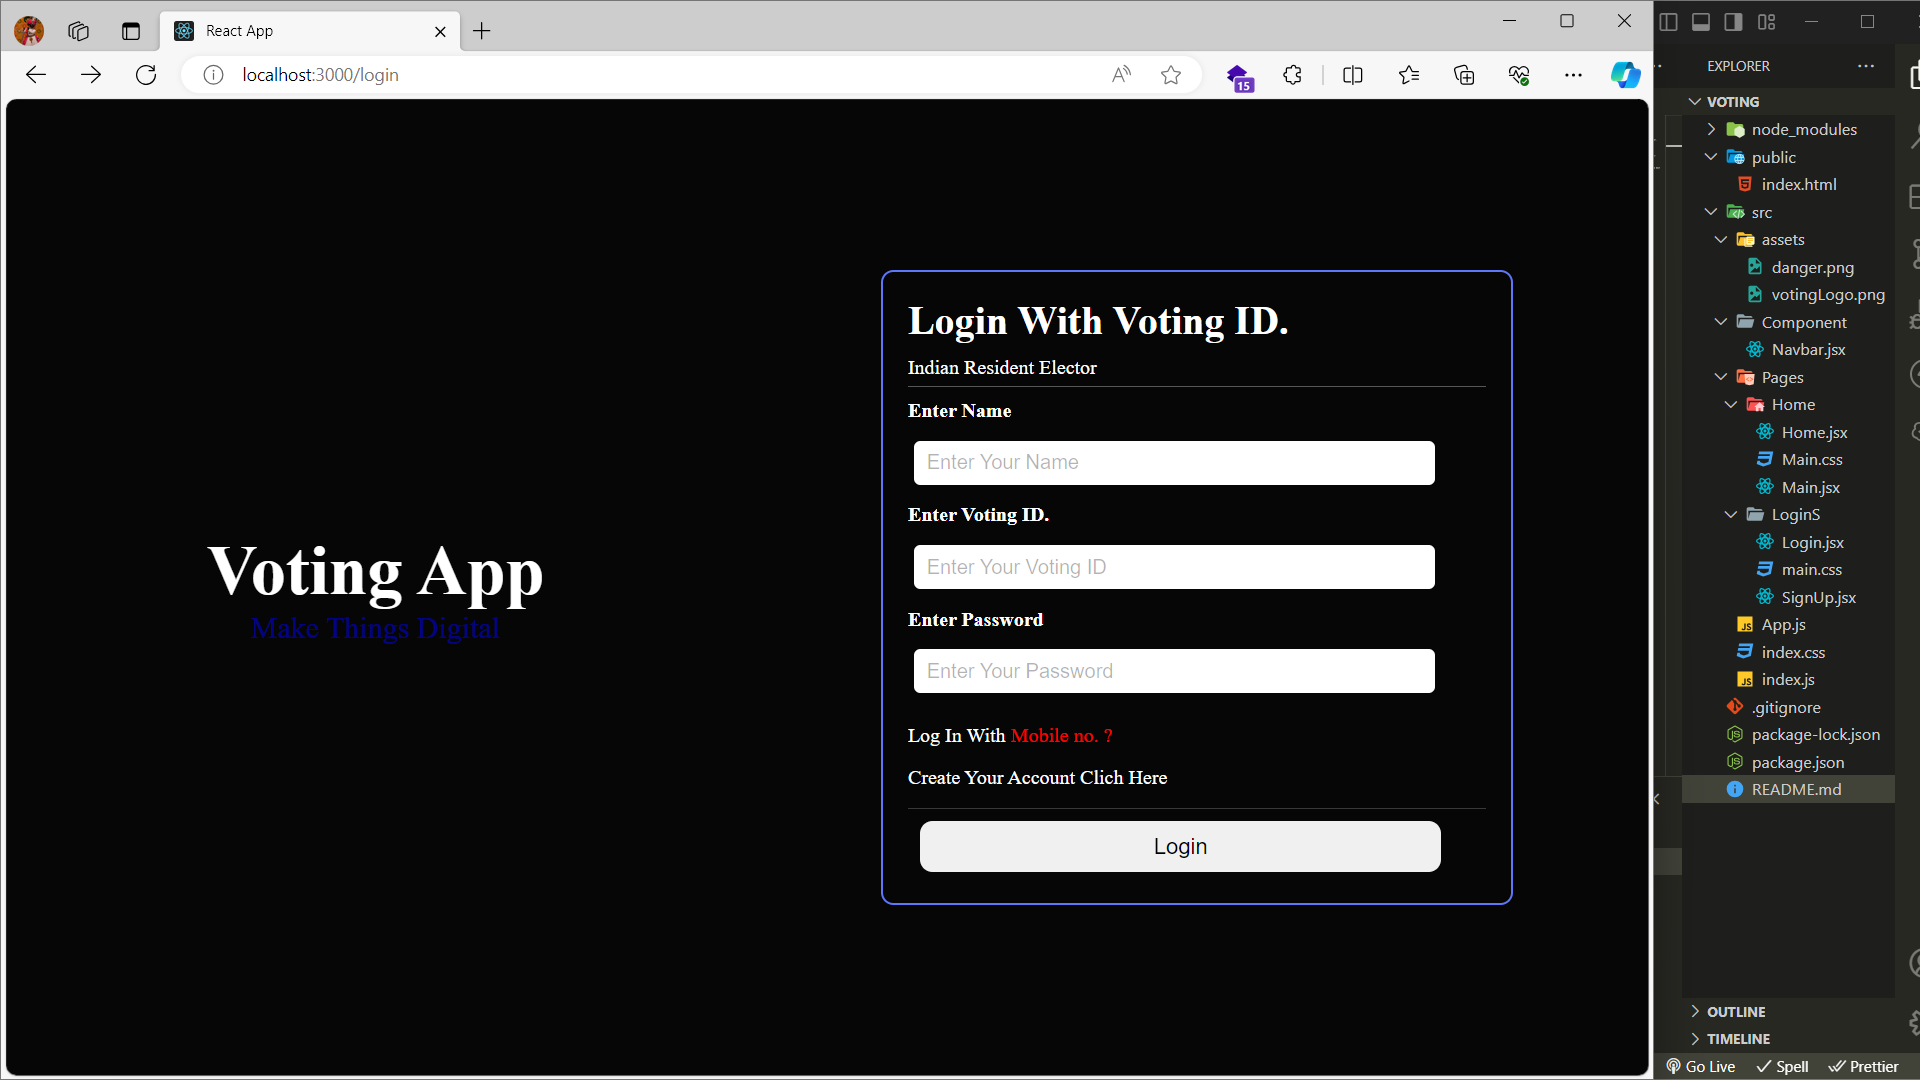
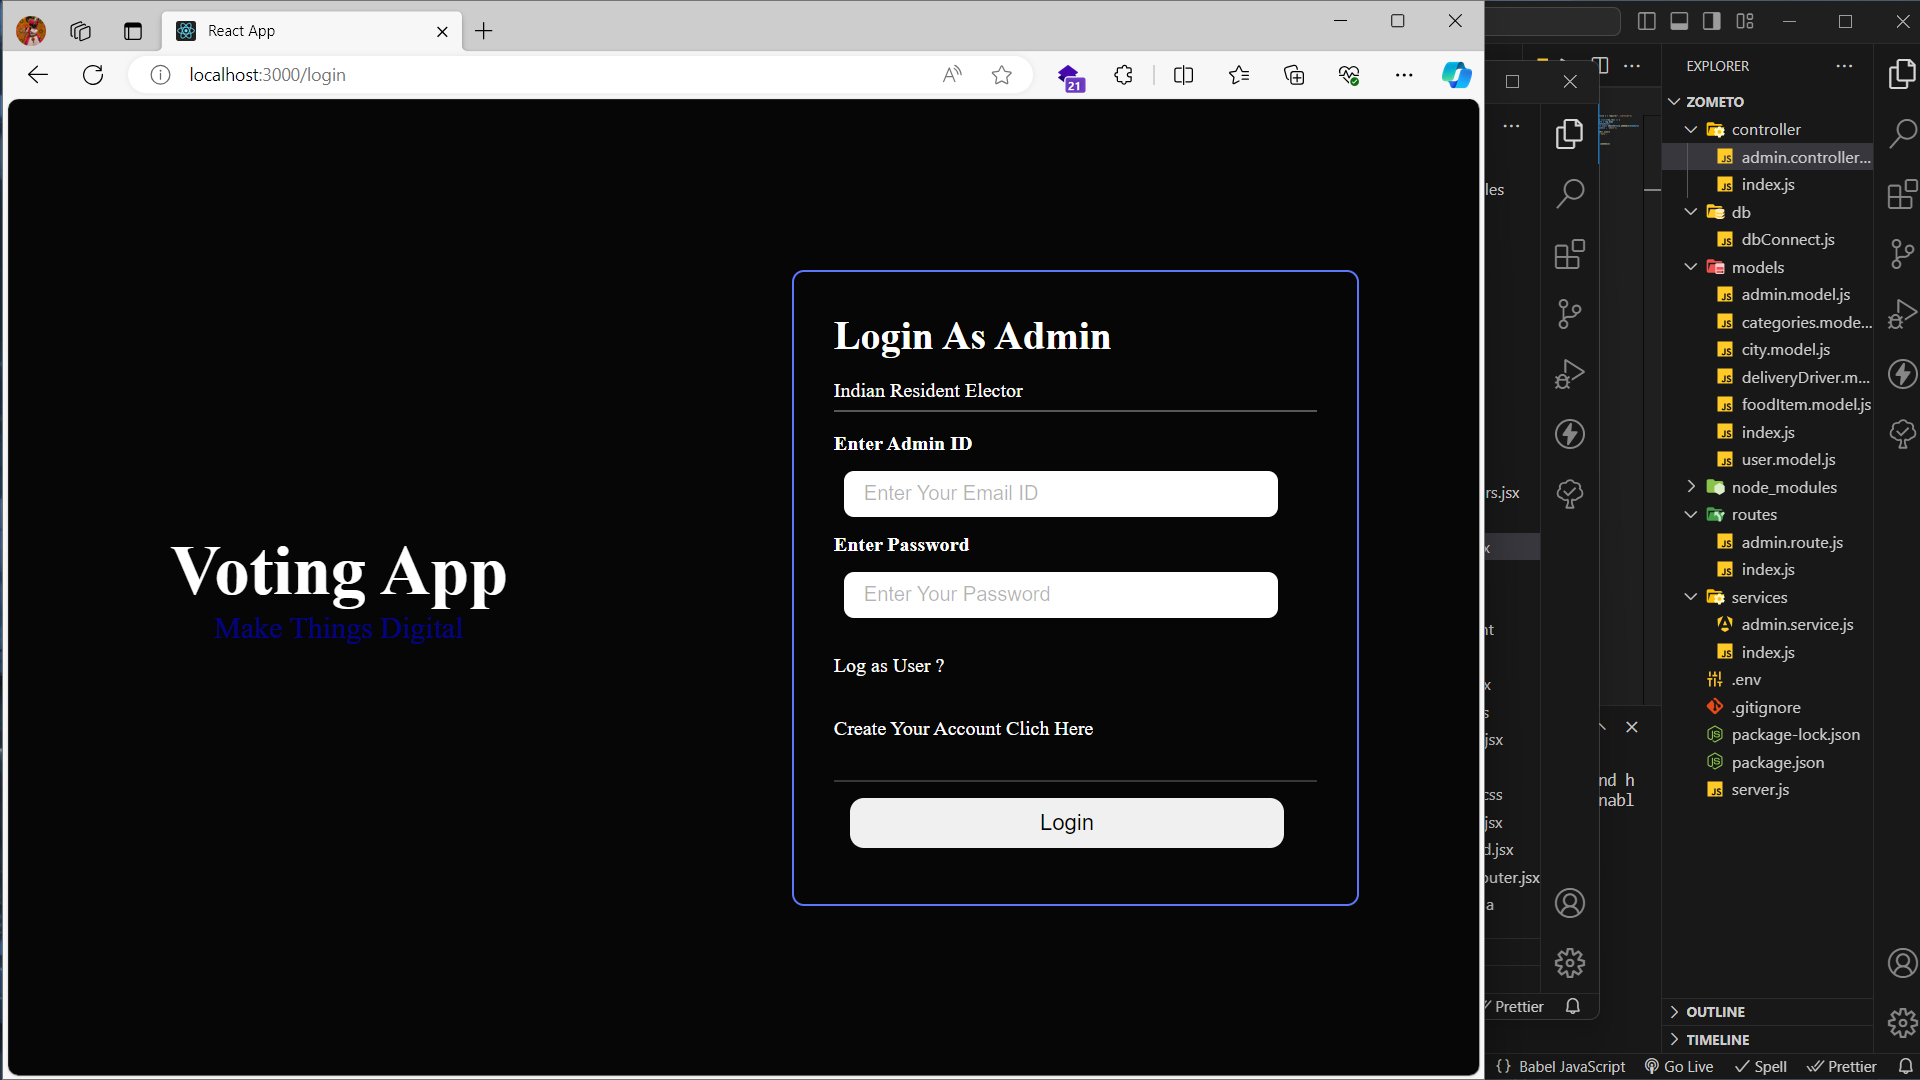
update file

diff --git a/voting/src/Admin/Users/AddUsers.jsx b/voting/src/Admin/Users/AddUsers.jsx
@@ -1,107 +1,92 @@
-import React from "react";
+import React, { useState } from "react";
 import { useNavigate } from "react-router-dom";
+import { POST_USER_PENDING } from "../../Redux-Saga/admin/Action/userAction";
+import { useDispatch } from "react-redux";
 
 const AddUsers = () => {
-
   const navigate = useNavigate();
+  const dispatch = useDispatch();
+  const [inputData , setInputData] = useState({})
 
+  const getInputData = (e) => {
+    setInputData({ ...inputData, [e.target.name]: e.target.value });
+  };
+
+console.log(inputData);
+
+const handleSumbit = ()=>{
+  if(inputData.Name && inputData.Email){
+    dispatch({type : POST_USER_PENDING , payload : inputData})
+  }
+  else{
+    alert("Please fill all fields !")
+  }
+}
   return (
     <>
-        <div className="adduser_bg">
-          <div className="adduser">
-              <h1 >Add User</h1>
-                  <h3 > Indian Resident Elector</h3>
+      <div className="adduser_bg">
+        <div className="adduser">
+          <h1>Add User</h1>
+          <h3> Indian Resident Elector</h3>
 
-                <div className="adduser_box">
-                      <div className="adduser_input">
-                        <label> Your Name</label>
-                          <input
-                            type="text"
-                            name="name"
-                            placeholder="Enter Your Name"
-                          />
-                      </div>
+          <div className="adduser_box">
+            <div className="adduser_input">
+              <label> Your Name</label>
+              <input type="text" name="Name" placeholder="Enter Your Name"  onChange={getInputData}/>
+            </div>
 
-                      <div className="adduser_input">
-                        <label> Your BirthDate</label>
-                          <input
-                            type="date"
-                            name="date"
-                          />
-                      </div>
+            <div className="adduser_input">
+              <label> Your BirthDate</label>
+              <input type="date" name="DOB"  onChange={getInputData}/>
+            </div>
 
-                      <div className="adduser_input">
-                        <label>Email address</label>
-                          <input
-                            name="email"
-                            type="email"
-                            placeholder="Enter Your Email"
-                          />
-                      </div>
+            <div className="adduser_input">
+              <label>Email address</label>
+              <input name="Email" type="email" placeholder="Enter Your Email" onChange={getInputData}/>
+            </div>
 
-                      <div className="adduser_input">
-                        <label> Enter Your Phone No.</label>
-                          <input
-                            name="number"
-                            type="text"
-                            placeholder="Enter Your Phone"
-                          />
-                      </div>
+            <div className="adduser_input">
+              <label> Enter Your Phone No.</label>
+              <input name="Phone" type="text" placeholder="Enter Your Phone" onChange={getInputData}/>
+            </div>
 
-                      <div className="adduser_input">
-                        <label> Your Address</label>
-                          <input
-                            type="text"
-                            name="address"
-                            placeholder="Enter Your Address"
-                          />
-                      </div>
+            <div className="adduser_input">
+              <label> Your Address</label>
+              <input
+                type="text"
+                name="Address"
+                placeholder="Enter Your Address"
+               onChange={getInputData}
+              />
+            </div>
 
-                      <div className="adduser_input">
-                        <label > Enter Your Gender</label>
-                          <input
-                            type="text"
-                            name="sex"
-                            placeholder="Enter Your Gender"
-                          />
-                      </div>
+            <div className="adduser_input">
+              <label> Enter Your Gender</label>
+              <input type="text" name="Sex" placeholder="Enter Your Gender" onChange={getInputData}/>
+            </div>
 
-                      <div className="adduser_input">
-                        <label > Enter Your Card No.</label>
-                          <input
-                            type="text"
-                            name="cardNumber"
-                            placeholder="Enter Your Card no."
-                          />
-                      </div>
+            <div className="adduser_input">
+              <label> Enter Your Card No.</label>
+              <input
+                type="text"
+                name="CardNumber"
+                placeholder="Enter Your Card no."
+                onChange={getInputData}
+              />
+            </div>
 
-                   
-                      <div className=" adduser_img">
-<label>Upload a file</label>
-
-                            <input
-                              type="file"
-                              id="logo"
-                              name="profile"
-                            />
-                      </div>
-                </div>
-
-              <div className="adduser_btn">
-                <button
-                  onClick={() => navigate("/users")}
-                >
-                  Cancel
-                </button>
-                <button
-                  type="submit"
-                >
-                  Add
-                </button>
-
-              </div>
+            <div className=" adduser_input">
+              <label>Upload a file</label>
+              <input type="text" name="Profile" placeholder="profile link" onChange={getInputData}/>
             </div>
           </div>
+
+          <div className="adduser_btn">
+            <button onClick={() => navigate("/users")}>Cancel</button>
+            <button type="submit" onClick={handleSumbit}>Add</button>
+          </div>
+        </div>
+      </div>
     </>
   );
 };

diff --git a/voting/src/Component/LoginS/Login.jsx b/voting/src/Component/LoginS/Login.jsx
@@ -1,21 +1,21 @@
-import React, { useEffect, useRef, useState } from "react";
+import React, { useEffect, useState } from "react";
 import { useNavigate } from "react-router-dom";
 import "./main.css";
-import { useDispatch, useSelector } from "react-redux";
-import { POST_LOGIN_PENDING } from "../../Redux-Saga/admin/Action/loginAction";
 import axios from "axios";
 import { BASE_URL, LOGIN_ENDPOINT } from "../../Redux-Saga/constant";
 
-const Login = () => {
+const Login = ({setLoginRole }) => {
+  console.log();
+
   const [loginData, setLoginData] = useState({});
   const [txt, setTxt] = useState(false);
   const navigate = useNavigate();
 
-  // const dispatch = useDispatch()
-  // const selector = useSelector((state)=>state.adminReducer)
+  useEffect(()=>{
+    // setLoginRole(txt === true ? 'User' : 'Admin')
 
-  // console.log(selector.data,'selector');
-  // const loginDetail = selector.data
+    localStorage.setItem('loginRole',JSON.stringify(txt === true ? 'User' : 'Admin'))
+  },[txt])
   
   const getInputData = (e) => {
     setLoginData({ ...loginData, [e.target.name]: e.target.value });
@@ -54,26 +54,17 @@ const Login = () => {
           <div className="login_form">
             <div className="login_box">
               <h3 className="login_h3">
-                Login With{" "}
-                {txt !== true ? ` ${"Mobile no. "}` : `${"Voting ID. "}`}
+                Login As{" "}
+                {txt !== true ? ` ${" Admin "}` : `${"User"}`}
               </h3>
               <p className="login_p">Indian Resident Elector</p>
               <div className="login_input">
-                <label>Enter Name</label>
-                <br />
-                <input type="text" placeholder="Enter Your Name " name="Name" onChange={getInputData}/>
-              </div>
-              <div className="login_input">
                 <label>
                   Enter{" "}
-                  {txt !== true ? ` ${"Email ID "}` : `${"Voting ID. "}`}
+                  {txt !== true ? ` ${" Admin ID "}` : `${"User ID. "}`}
                 </label>
                 <br />
-                {txt !== true ? (
                   <input type="email" placeholder="Enter Your Email ID" name="Email" onChange={getInputData}/>
-                ) : (
-                  <input type="txt" placeholder="Enter Your Voting ID " name="adminVoting" onChange={getInputData}/>
-                )}
               </div>
               <div className="login_input">
                 <label>Enter Password</label>
@@ -84,20 +75,10 @@ const Login = () => {
                 className="login_para"
                 onClick={() => setTxt(txt !== true ? true : false)}
               >
-                Log In With{" "}
+                Log as{" "}
                 <span>
                   {" "}
-                  {txt === true ? ` ${"Email no. ?"}` : `${"Voting ID. ?"}`}
-                </span>
-              </p>
-              <p
-                className="login_para"
-                onClick={() => setTxt(txt !== true ? true : false)}
-              >
-                Log In With{" "}
-                <span>
-                  {" "}
-                  {txt === true ? ` ${"Mobile no. ?"}` : `${"Voting ID. ?"}`}
+                  {txt === true ? ` ${" Admin ?"}` : `${" User ?"}`}
                 </span>
               </p>
               <p className="login_para" onClick={() => navigate("/signup")}>

diff --git a/voting/src/App.js b/voting/src/App.js
@@ -1,7 +1,7 @@
 import { Route, Routes } from "react-router-dom";
 import Main from "./Admin/Home/Main";
-import Login from "./Admin/LoginS/Login";
-import SignUp from "./Admin/LoginS/SignUp";
+import Login from "./Component/LoginS/Login";
+import SignUp from "./Component/LoginS/SignUp";
 import Home from "./Admin/Home/Home";
 import AddElection from "./Admin/Election/AddElection";
 import AddParty from "./Admin/party/AddParty";
@@ -14,19 +14,28 @@ import Profile from "./Admin/Profile/Profile";
 import NotFound from "./Component/NotFound";
 import ProtectRouter from "./Component/ProtectRouter";
 import VotesU from "./User/pages/Votes";
+import { useEffect, useState } from "react";
 
 function App() {
+  const [loginRole , setLoginRole] = useState()
 
-  const role = 'admin'
+  console.log(loginRole,'appjs');
+  useEffect(()=>{
+    setLoginRole(JSON.parse(localStorage.getItem('loginRole')) )
+  },[loginRole])
+  const role = loginRole
+  console.log(role,'appjs');
+
+
   return (
     <>
       <Routes>
         <Route path="/" element={<Main />} />
-        <Route path="/login" element={<Login />} />
+        <Route path="/login" element={<Login setLoginRole={setLoginRole}/>} />
         <Route path="/signup" element={<SignUp />} />
         <Route path="/" element={<ProtectRouter />}>
-        { role === 'admin' ?<>
-          <Route path="/home" element={<Home />} />
+        { role === 'Admin' ?<>
+          <Route path="/home" element={<Home loginRole={loginRole}/>} />
           <Route path="/addelection" element={<AddElection />} />
           <Route path="/addparty" element={<AddParty />} />
           <Route path="/election" element={<Election />} />

diff --git a/voting/src/Component/Navbar/Navbar.jsx b/voting/src/Component/Navbar/Navbar.jsx
@@ -1,4 +1,4 @@
-import React, { useState } from "react";
+import React, { useEffect, useState } from "react";
 import { Link, useNavigate } from "react-router-dom";
 import vote from "../../assets/vote.png";
 import { navAdmin } from "../../Admin/NavBar/navAdmin";
@@ -9,15 +9,19 @@ import { navUser } from "../../User/NavBar/navUser";
 // import { toast } from 'react-toastify';
 // import "";
 const Navbar = () => {
-  const navigate = useNavigate();
-  const login = JSON.parse(localStorage.getItem('loginKey'))
-  const Role = login
+const navigate = useNavigate();
+const [loginRole , setLoginRole] = useState()
+useEffect(()=>{
+
+setLoginRole(JSON.parse(localStorage.getItem('loginRole')) || 'User')
+},[loginRole])
+const Role = loginRole
 console.log(Role , 'r');
-  function handleLogout(){
-    localStorage.removeItem('loginKey')
-    localStorage.removeItem('loginDetail')
-    navigate('/')
-  }
+function handleLogout(){
+  localStorage.removeItem('loginKey')
+  localStorage.removeItem('loginDetail')
+  navigate('/')
+}
 
   return (
     <>
@@ -30,7 +34,7 @@ console.log(Role , 'r');
           <div className="nav_list">
             <ul className="nav_list_ul">
             {
-              Role === 'Admin' || 'admin'?
+              Role === 'Admin'?
               navAdmin.map((e)=>{
                  return <li className="nav_list_li" key={e.key}>
                 <Link to={e.path}>{e.label}</Link>

diff --git a/voting/src/Admin/Users/Users.jsx b/voting/src/Admin/Users/Users.jsx
@@ -68,7 +68,7 @@ const Users = () => {
               <p >{e.Address ? e.Address : 'Not Upload'}</p>
             </div>
             <div className="card_btn">
-              <button>
+              <button onClick={()=>handleDelete()}>
                 <svg
                   viewBox="0 0 1024 1024"
                   fill="currentColor"
@@ -78,7 +78,7 @@ const Users = () => {
                   <path d="M864 256H736v-80c0-35.3-28.7-64-64-64H352c-35.3 0-64 28.7-64 64v80H160c-17.7 0-32 14.3-32 32v32c0 4.4 3.6 8 8 8h60.4l24.7 523c1.6 34.1 29.8 61 63.9 61h454c34.2 0 62.3-26.8 63.9-61l24.7-523H888c4.4 0 8-3.6 8-8v-32c0-17.7-14.3-32-32-32zm-200 0H360v-72h304v72z" />
                 </svg>
               </button>
-              <button>
+              <button onClick={()=>navigate('/addusers')}>
                 <svg
                   viewBox="0 0 24 24"
                   fill="currentColor"

diff --git a/voting/src/Admin/Home/Home.jsx b/voting/src/Admin/Home/Home.jsx
@@ -6,7 +6,7 @@ import dasVote from '../../assets/election.jpg'
 const Home = () => {
   return (
     <>
-    <Navbar/>
+    <Navbar />
     <div className='home_Das'>
         <h1>Bharat Welcome's to EveryOne Portal of ECI</h1>
         <img src={dasVote} alt='img'/>

diff --git a/voting/README.md b/voting/README.md
@@ -58,10 +58,10 @@
 
 
 
-
+<!-- 
 ## Screenshots10
 
-![project Screenshot](https://github.com/SharmaNatvar/ReactJS/blob/main/voting/src/assets/ss/img10.png?raw=true)
+![project Screenshot](https://github.com/SharmaNatvar/ReactJS/blob/main/voting/src/assets/ss/img10.png?raw=true) -->
 
 
 
